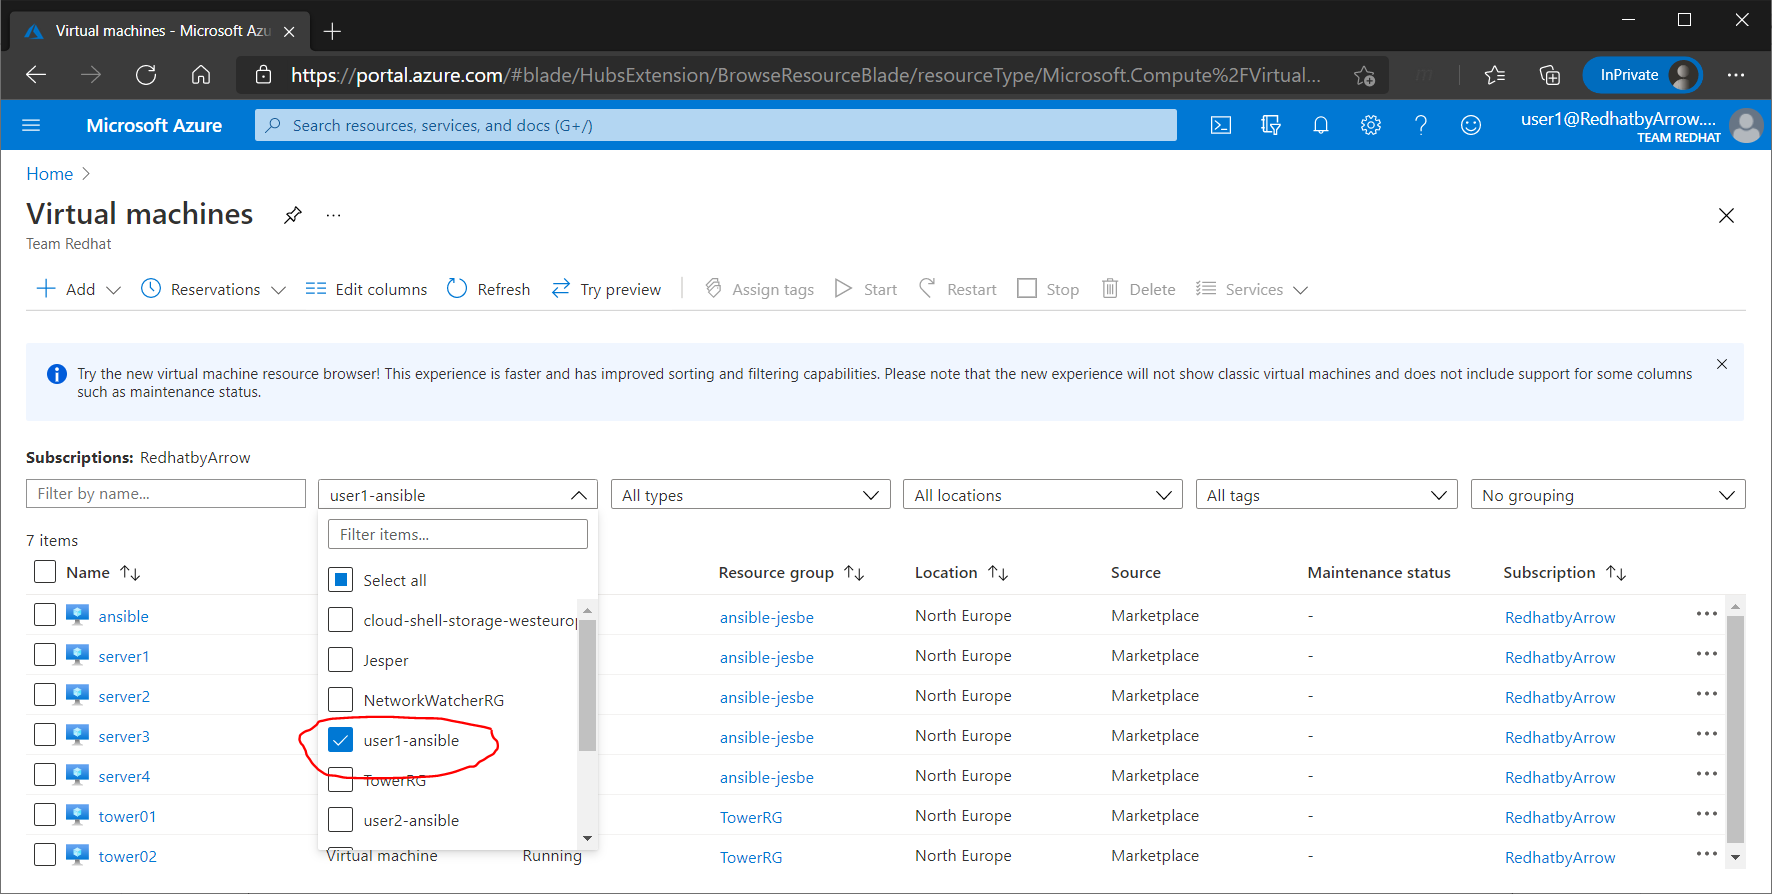
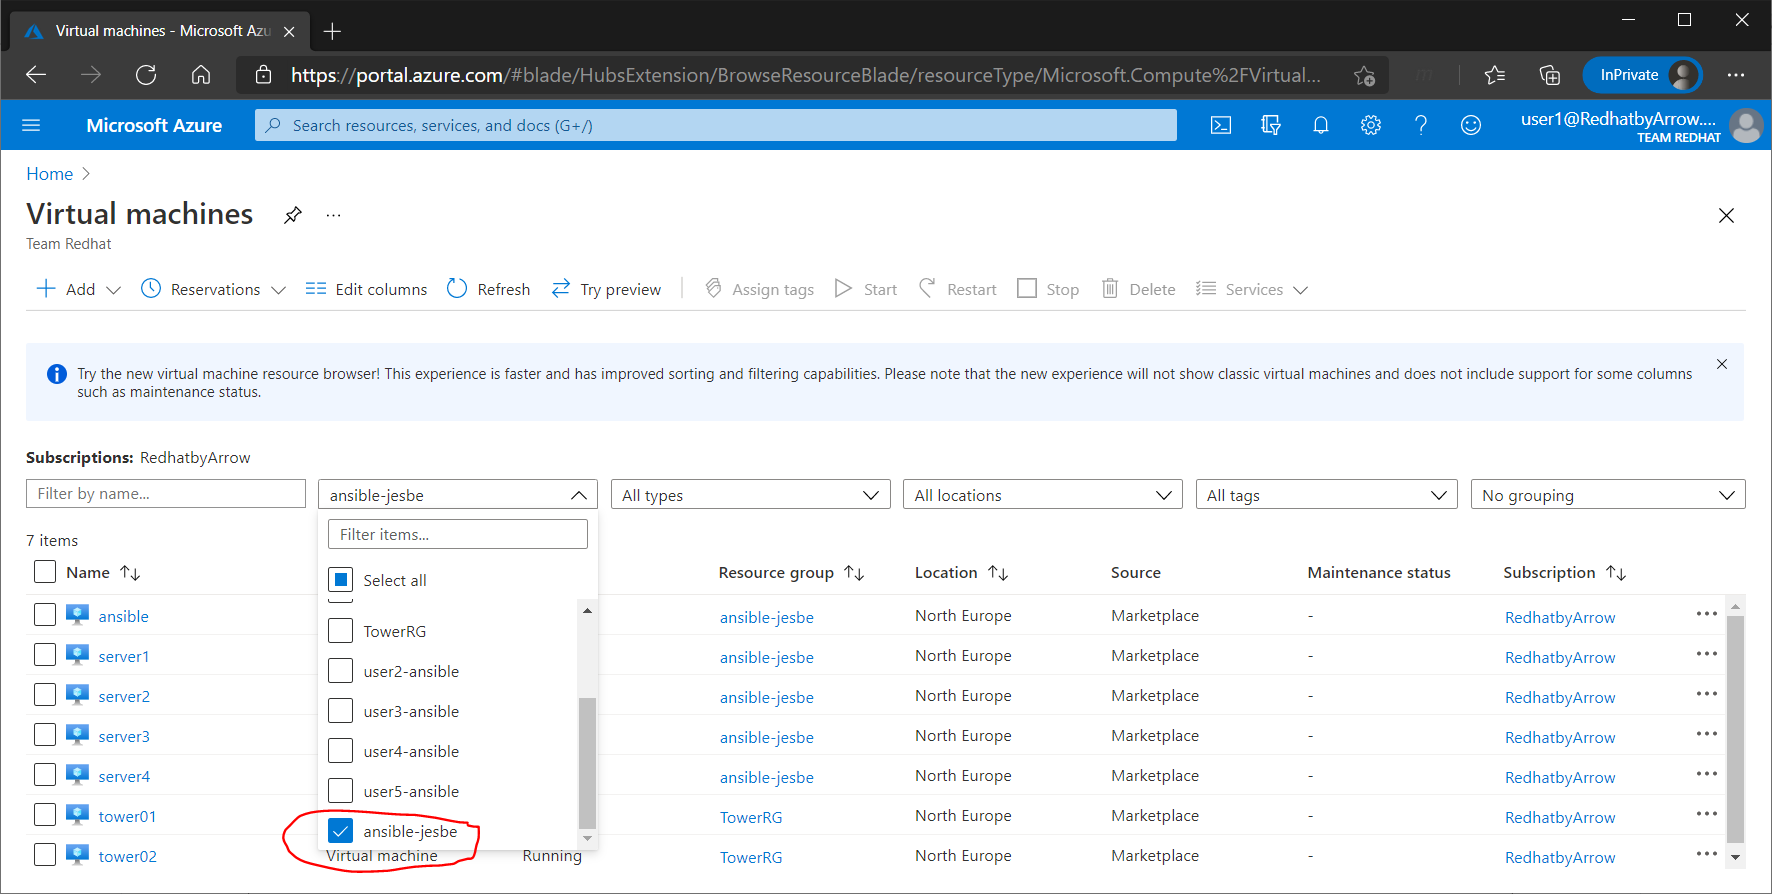
new pic

diff --git a/lab01/lab1.md b/lab01/lab1.md
@@ -18,7 +18,7 @@ On the Azure portal click Virtual Machines
 
 ![Alt text](pics/000_azure_portal.png?raw=true "Azure Portal")
 
-Select your Resource Group
+Select your Resource Group, it's named __ansible-initials__
 
 ![Alt text](pics/000_azure_portal_resourcegroup.png?raw=true "Azure Portal")
 
